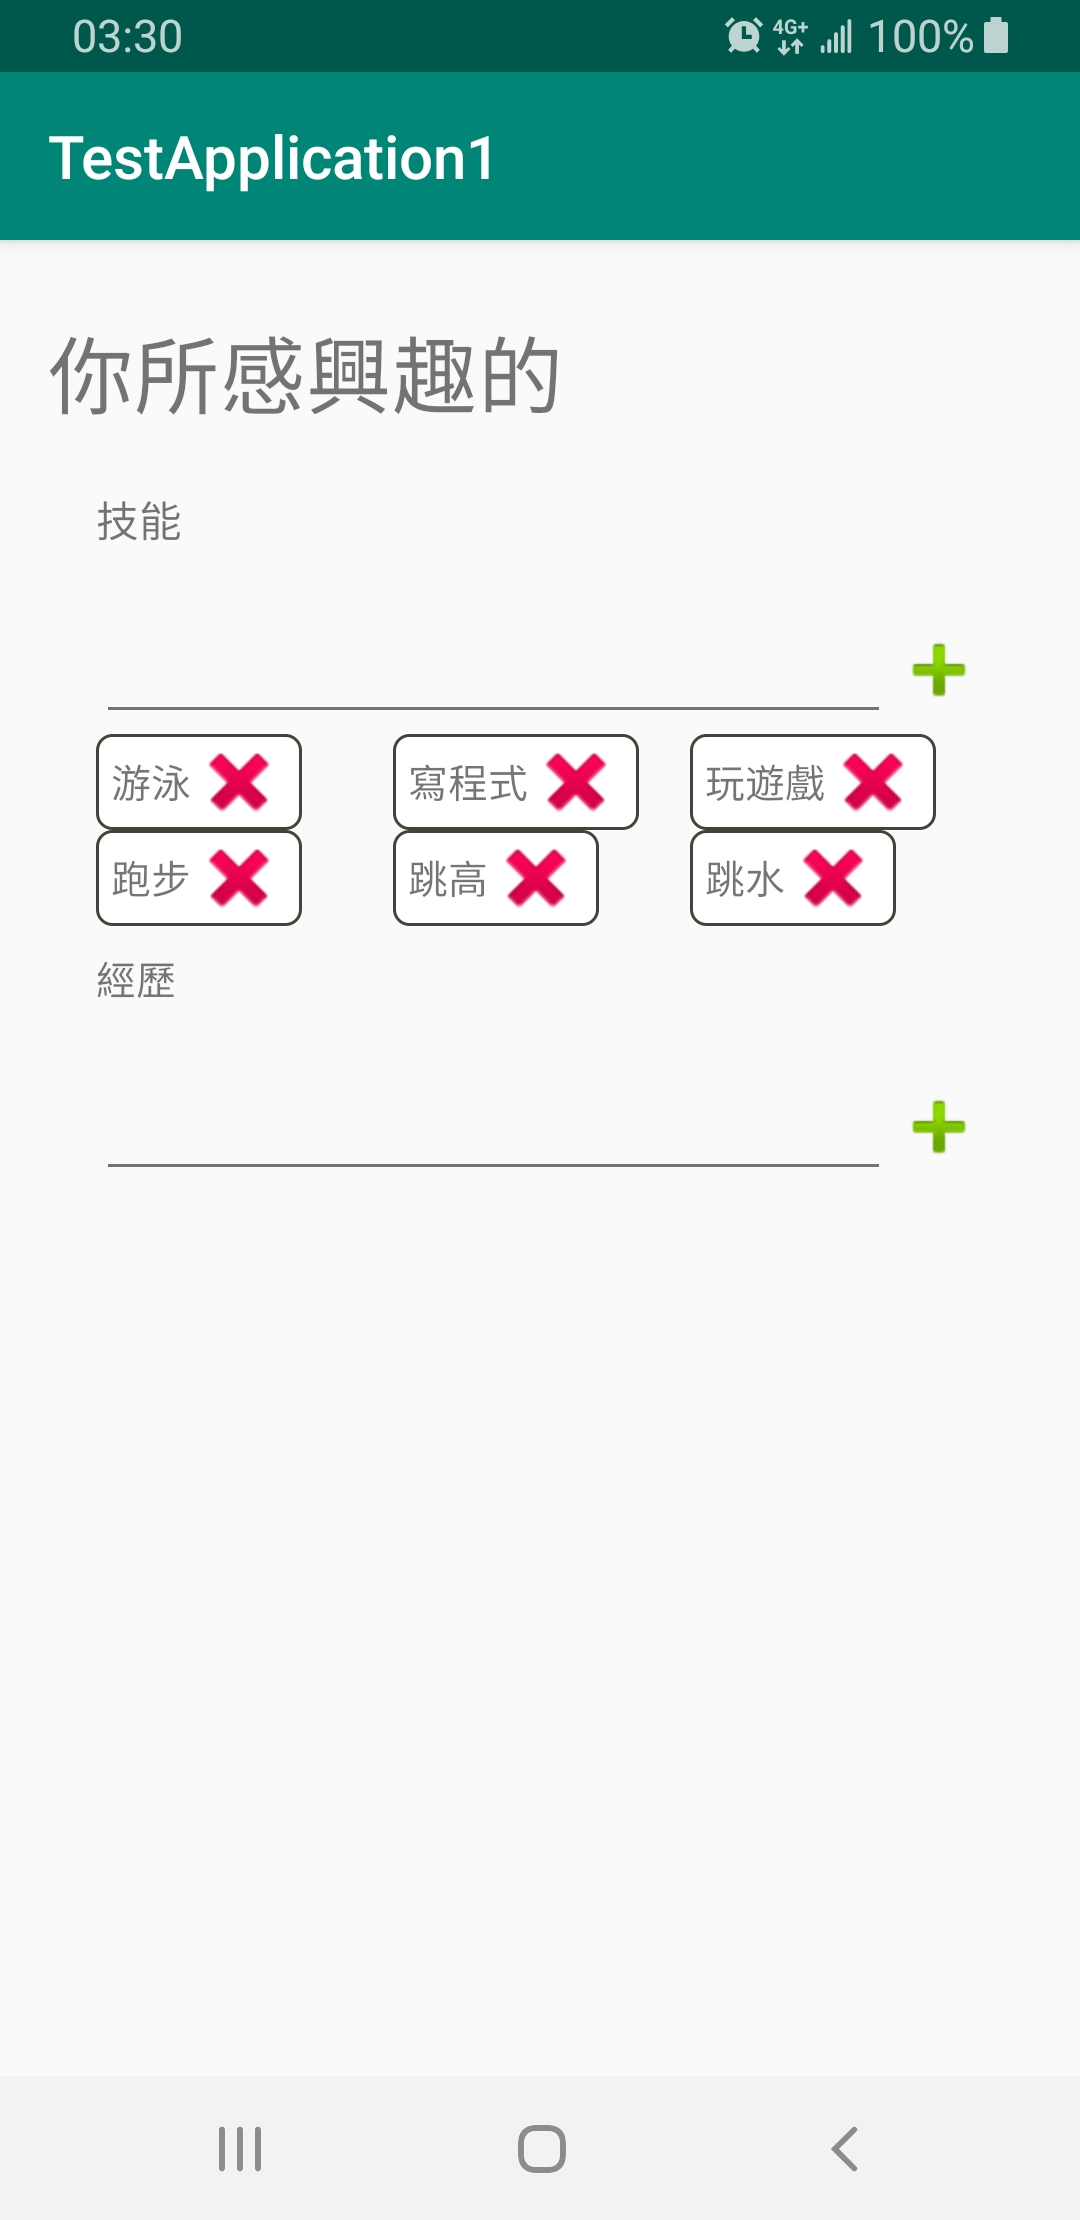
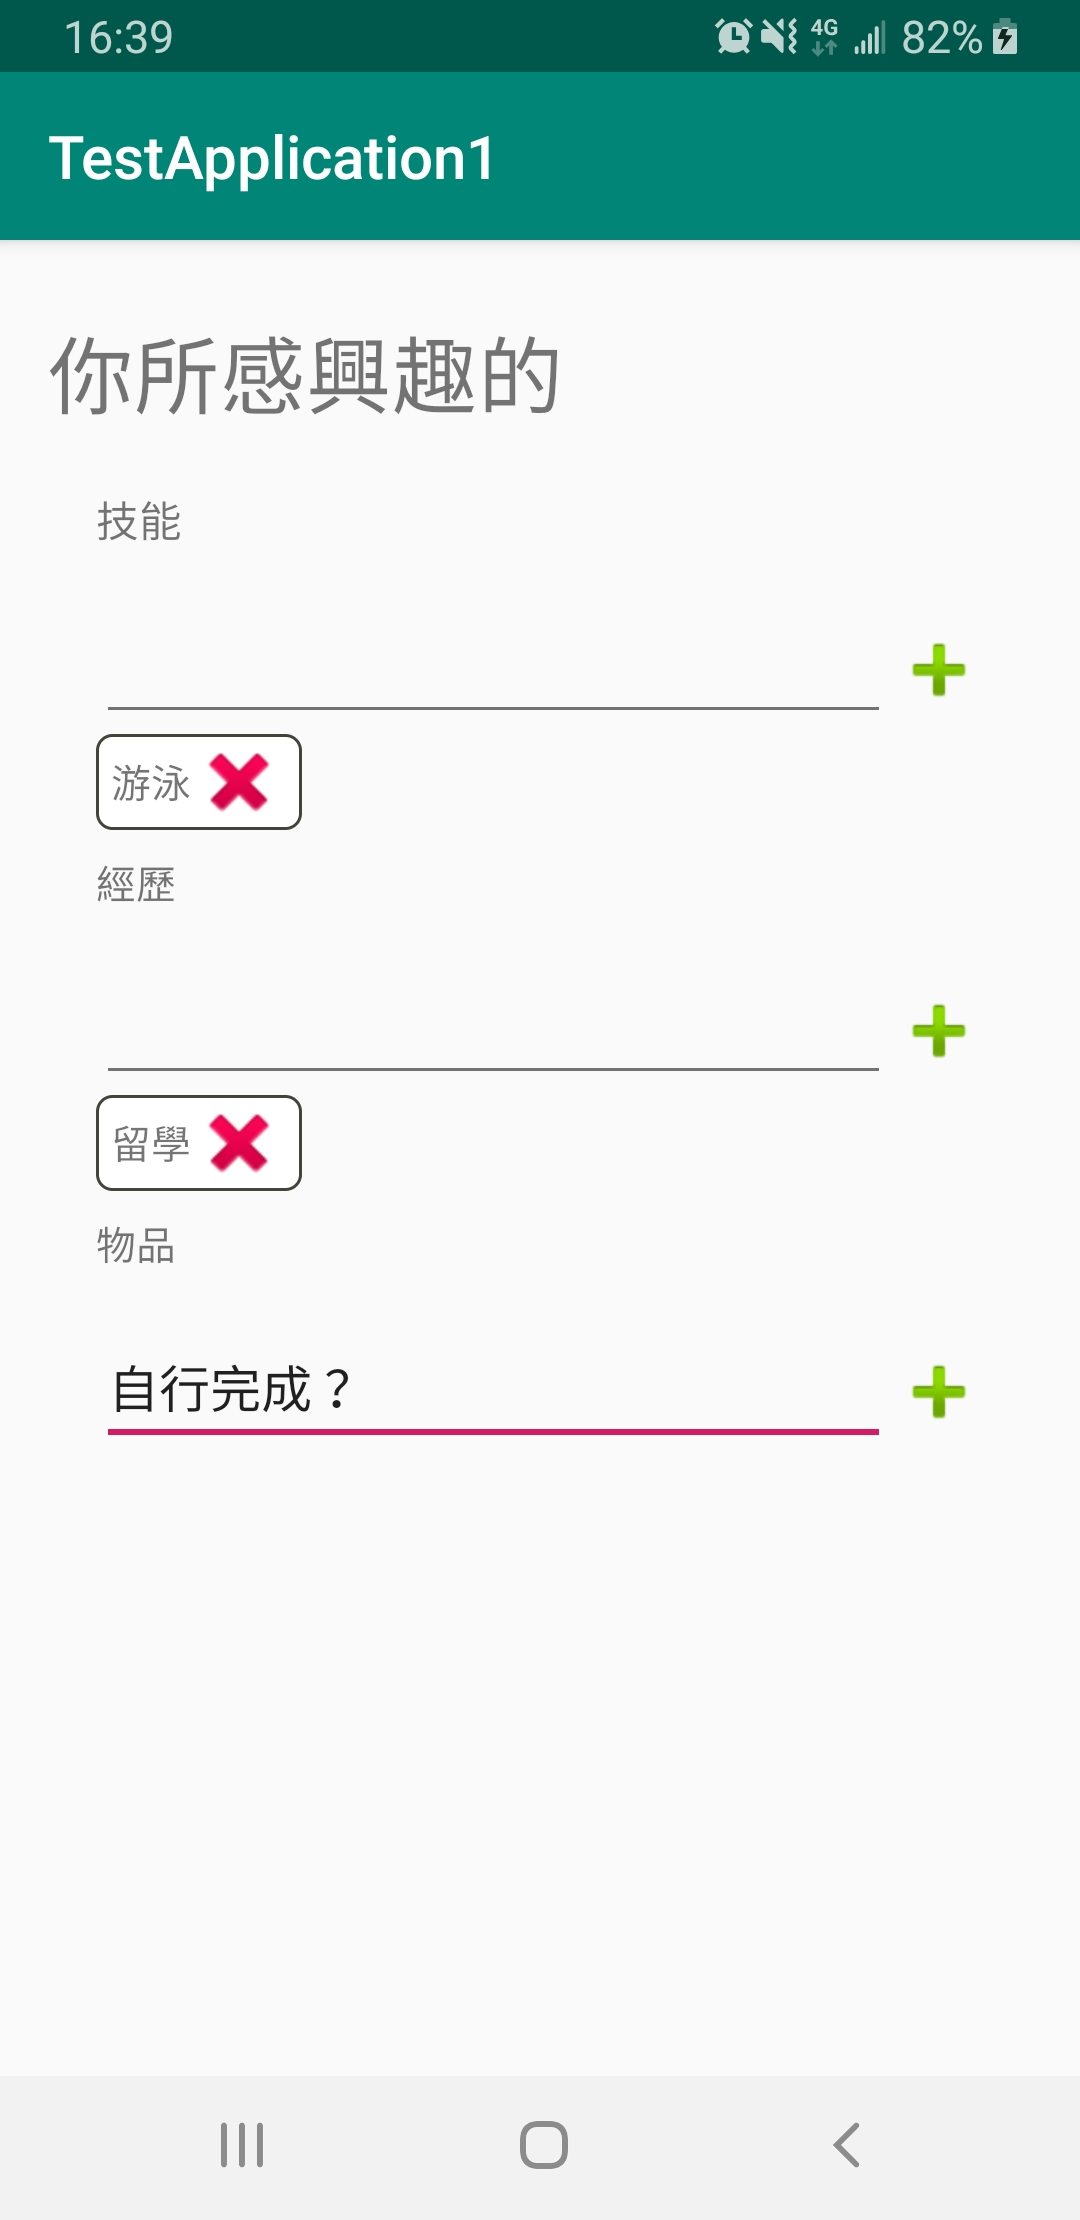
add experience

diff --git a/app/src/main/java/ncku/edu/tw/testapplication1/MainActivity.java b/app/src/main/java/ncku/edu/tw/testapplication1/MainActivity.java
@@ -10,17 +10,31 @@ import android.widget.EditText;
 import android.widget.ImageView;
 
 public class MainActivity extends AppCompatActivity {
-    RecyclerView recyclerView;
+    HobbyListAdapter hobbyListAdapter;
+    RecyclerView recyclerView1;
     EditText editText1;
-    ImageView imageView1;
+    ImageView hobbyAddImage;
+
+    ExperienceListAdapter experienceListAdapter;
+    RecyclerView recyclerView2;
+    EditText editText2;
+    ImageView experienceAddImage;
+
     @Override
     protected void onCreate(Bundle savedInstanceState) {
         super.onCreate(savedInstanceState);
         setContentView(R.layout.activity_main);
-        final ListAdapter listAdapter = new ListAdapter(this);
-        editText1 = (EditText) findViewById(R.id.editText);
-        imageView1 = (ImageView) findViewById(R.id.imageView);
-        recyclerView = (RecyclerView) findViewById(R.id.recyclerView);
+        initHobbyView();
+        addHobby();
+
+        initExperienceView();
+    }
+
+    public void initHobbyView() {
+        hobbyListAdapter = new HobbyListAdapter(this);
+        editText1 = (EditText) findViewById(R.id.editText1);
+        hobbyAddImage = (ImageView) findViewById(R.id.hobbyAddImage);
+        recyclerView1 = (RecyclerView) findViewById(R.id.recyclerView1);
 
 //        GridLayoutManager manager = new GridLayoutManager(this, 3, GridLayoutManager.VERTICAL, false);
         GridLayoutManager manager = new GridLayoutManager(this, 3, GridLayoutManager.VERTICAL, false) {
@@ -29,26 +43,60 @@ public class MainActivity extends AppCompatActivity {
                 return false;
             }
         };
-        recyclerView.setLayoutManager(manager);
-        recyclerView.setAdapter(listAdapter);
-
-        //測試使用
-        listAdapter.addItem(new Hobby("游泳"));
-        listAdapter.addItem(new Hobby("寫程式"));
-        listAdapter.addItem(new Hobby("玩遊戲"));
-        listAdapter.addItem(new Hobby("跑步"));
-        listAdapter.addItem(new Hobby("跳高"));
-        listAdapter.addItem(new Hobby("跳水"));
+        recyclerView1.setLayoutManager(manager);
+        recyclerView1.setAdapter(hobbyListAdapter);
 
         //動態新增
-        imageView1.setOnClickListener(new View.OnClickListener() {
+        hobbyAddImage.setOnClickListener(new View.OnClickListener() {
             @Override
             public void onClick(View view) {
-                if(!editText1.getText().toString().trim().equals("")) {
-                    listAdapter.addItem(new Hobby(editText1.getText().toString()));
+                if (!editText1.getText().toString().trim().equals("")) {
+                    hobbyListAdapter.addItem(new Hobby(editText1.getText().toString()));
                     editText1.setText("");
                 }
             }
         });
+    }
+
+    private void addHobby() {
+        //測試使用
+        hobbyListAdapter.addItem(new Hobby("游泳"));
+        hobbyListAdapter.addItem(new Hobby("寫程式"));
+        hobbyListAdapter.addItem(new Hobby("玩遊戲"));
+        hobbyListAdapter.addItem(new Hobby("跑步"));
+        hobbyListAdapter.addItem(new Hobby("跳高"));
+        hobbyListAdapter.addItem(new Hobby("跳水"));
+    }
+
+    public void initExperienceView() {
+        experienceListAdapter = new ExperienceListAdapter(this);
+        editText2 = (EditText) findViewById(R.id.editText2);
+        experienceAddImage = (ImageView) findViewById(R.id.experienceAddImage);
+        recyclerView2 = (RecyclerView) findViewById(R.id.recyclerView2);
+
+        GridLayoutManager manager = new GridLayoutManager(this, 3, GridLayoutManager.VERTICAL, false) {
+            @Override
+            public boolean canScrollVertically() {
+                return false;
+            }
+        };
+        recyclerView2.setLayoutManager(manager);
+        recyclerView2.setAdapter(experienceListAdapter);
+
+        //動態新增
+        experienceAddImage.setOnClickListener(new View.OnClickListener() {
+            @Override
+            public void onClick(View view) {
+                if (!editText2.getText().toString().trim().equals("")) {
+                    experienceListAdapter.addItem(new Experience(editText2.getText().toString()));
+                    editText2.setText("");
+                }
+            }
+        });
+    }
+
+    //請自行完成？
+    public void initMaterialView() {
+
     }
 }

diff --git a/app/src/main/java/ncku/edu/tw/testapplication1/ExperienceListAdapter.java b/app/src/main/java/ncku/edu/tw/testapplication1/ExperienceListAdapter.java
@@ -12,26 +12,26 @@ import java.util.ArrayList;
 import androidx.annotation.NonNull;
 import androidx.recyclerview.widget.RecyclerView;
 
-public class ListAdapter extends RecyclerView.Adapter<RecyclerView.ViewHolder> {
+public class ExperienceListAdapter extends RecyclerView.Adapter<RecyclerView.ViewHolder> {
     ArrayList arrayList;
     Context mContext;
 
-    public ListAdapter(Context context) {
+    public ExperienceListAdapter(Context context) {
         mContext = context;
-        arrayList = new ArrayList<Hobby>();
+        arrayList = new ArrayList<Experience>();
     }
 
     @NonNull
     @Override
     public RecyclerView.ViewHolder onCreateViewHolder(@NonNull ViewGroup parent, int viewType) {
-        return new ViewHolder(LayoutInflater.from(mContext).inflate(R.layout.recycler_view_hoppy,
+        return new ViewHolder(LayoutInflater.from(mContext).inflate(R.layout.recycler_view_experince,
                 parent, false));
     }
 
     @Override
     public void onBindViewHolder(@NonNull RecyclerView.ViewHolder holder, int position) {
-        Hobby hobby = (Hobby) arrayList.get(position);
-        ((ViewHolder)holder).bindToHobby(hobby);
+        Experience experience = (Experience) arrayList.get(position);
+        ((ViewHolder)holder).bindToHobby(experience);
     }
 
     @Override
@@ -39,8 +39,8 @@ public class ListAdapter extends RecyclerView.Adapter<RecyclerView.ViewHolder> {
         return arrayList.size();
     }
 
-    public void addItem(Hobby hobby) {
-        arrayList.add(hobby);
+    public void addItem(Experience experience) {
+        arrayList.add(experience);
         notifyDataSetChanged();
     }
 
@@ -52,7 +52,7 @@ public class ListAdapter extends RecyclerView.Adapter<RecyclerView.ViewHolder> {
         public ViewHolder(@NonNull View itemView) {
             super(itemView);
             textView = (TextView) itemView.findViewById(R.id.textView);
-            imageView = (ImageView) itemView.findViewById(R.id.imageView);
+            imageView = (ImageView) itemView.findViewById(R.id.experienceAddImage);
             imageView.setOnClickListener(new View.OnClickListener() {
                 @Override
                 public void onClick(View view) {
@@ -63,8 +63,8 @@ public class ListAdapter extends RecyclerView.Adapter<RecyclerView.ViewHolder> {
             });
         }
 
-        public void bindToHobby(Hobby hobby) {
-            textView.setText(hobby.getHobby());
+        public void bindToHobby(Experience experience) {
+            textView.setText(experience.getExperience());
         }
     }
 }

diff --git a/app/src/main/java/ncku/edu/tw/testapplication1/HobbyListAdapter.java b/app/src/main/java/ncku/edu/tw/testapplication1/HobbyListAdapter.java
@@ -1,0 +1,70 @@
+package ncku.edu.tw.testapplication1;
+
+import android.content.Context;
+import android.view.LayoutInflater;
+import android.view.View;
+import android.view.ViewGroup;
+import android.widget.ImageView;
+import android.widget.TextView;
+
+import java.util.ArrayList;
+
+import androidx.annotation.NonNull;
+import androidx.recyclerview.widget.RecyclerView;
+
+public class HobbyListAdapter extends RecyclerView.Adapter<RecyclerView.ViewHolder> {
+    ArrayList arrayList;
+    Context mContext;
+
+    public HobbyListAdapter(Context context) {
+        mContext = context;
+        arrayList = new ArrayList<Hobby>();
+    }
+
+    @NonNull
+    @Override
+    public RecyclerView.ViewHolder onCreateViewHolder(@NonNull ViewGroup parent, int viewType) {
+        return new ViewHolder(LayoutInflater.from(mContext).inflate(R.layout.recycler_view_hoppy,
+                parent, false));
+    }
+
+    @Override
+    public void onBindViewHolder(@NonNull RecyclerView.ViewHolder holder, int position) {
+        Hobby hobby = (Hobby) arrayList.get(position);
+        ((ViewHolder)holder).bindToHobby(hobby);
+    }
+
+    @Override
+    public int getItemCount() {
+        return arrayList.size();
+    }
+
+    public void addItem(Hobby hobby) {
+        arrayList.add(hobby);
+        notifyDataSetChanged();
+    }
+
+
+
+    class ViewHolder extends RecyclerView.ViewHolder {
+        TextView textView;
+        ImageView imageView;
+        public ViewHolder(@NonNull View itemView) {
+            super(itemView);
+            textView = (TextView) itemView.findViewById(R.id.textView);
+            imageView = (ImageView) itemView.findViewById(R.id.hobbyAddImage);
+            imageView.setOnClickListener(new View.OnClickListener() {
+                @Override
+                public void onClick(View view) {
+                    int position = getLayoutPosition();
+                    arrayList.remove(position);
+                    notifyDataSetChanged();
+                }
+            });
+        }
+
+        public void bindToHobby(Hobby hobby) {
+            textView.setText(hobby.getHobby());
+        }
+    }
+}

diff --git a/app/src/main/java/ncku/edu/tw/testapplication1/Experience.java b/app/src/main/java/ncku/edu/tw/testapplication1/Experience.java
@@ -1,0 +1,17 @@
+package ncku.edu.tw.testapplication1;
+
+public class Experience {
+    String experience;
+
+    public Experience(String experience) {
+        this.experience = experience;
+    }
+
+    public String getExperience() {
+        return experience;
+    }
+
+    public void setExperience(String experience) {
+        this.experience = experience;
+    }
+}
